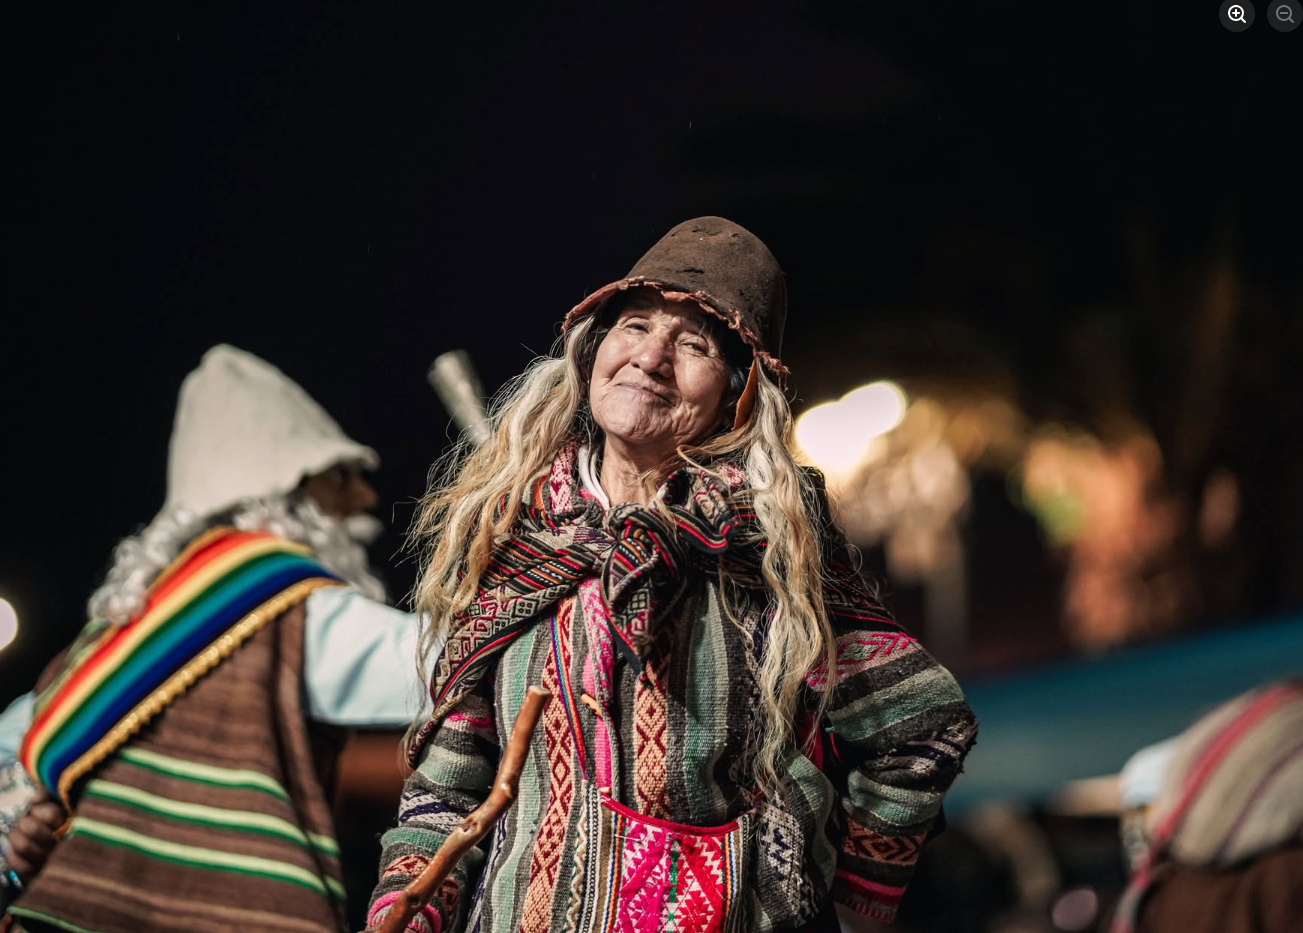
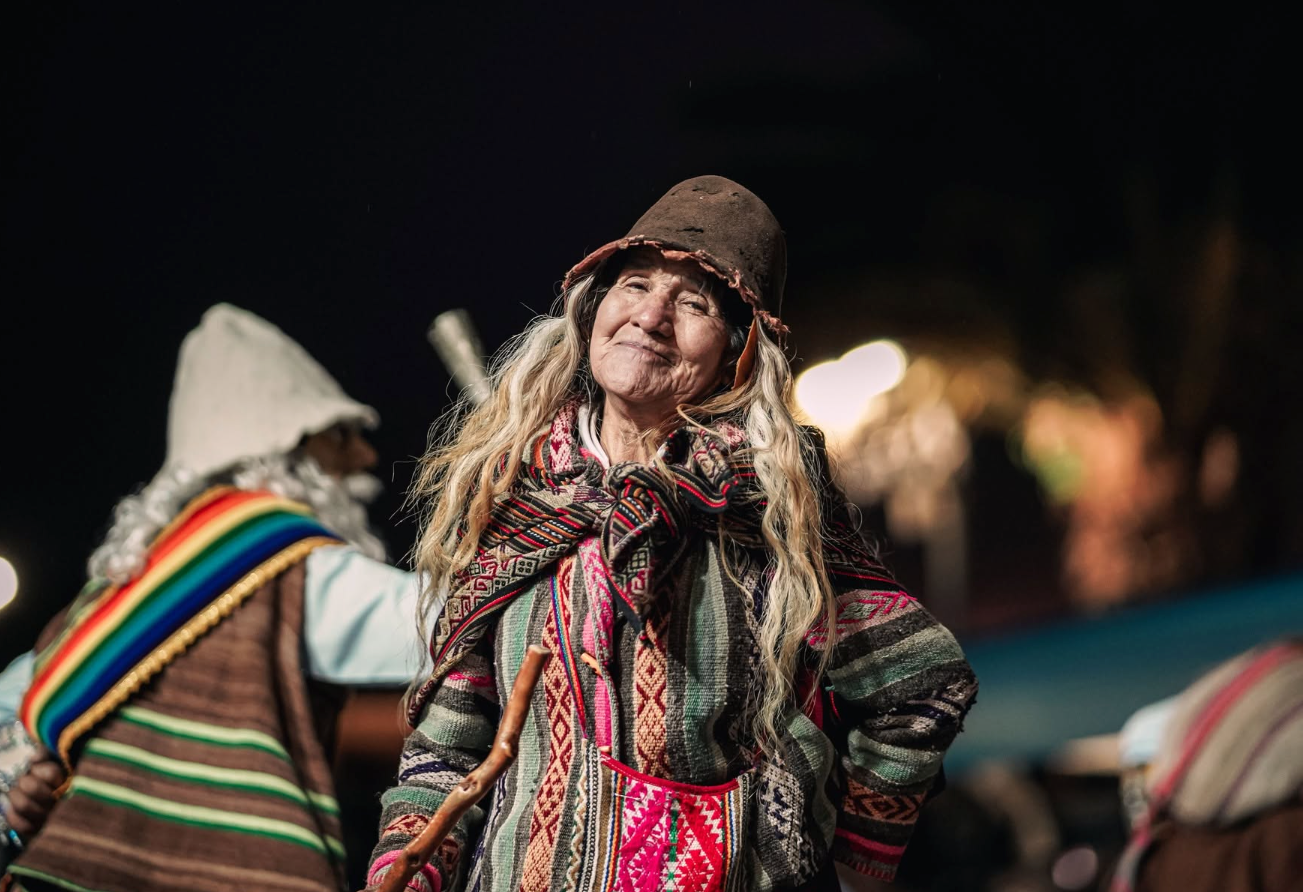
Subir imagenes recortadas de la galeria y corregir fluidez de movimiento eliminando vibracion

diff --git a/index.html b/index.html
@@ -1441,7 +1441,7 @@
     .runway-track-container {
       width: 100%;
       overflow-x: auto;
-      scroll-behavior: smooth;
+      scroll-behavior: auto !important;
       scrollbar-width: none;
       -ms-overflow-style: none;
       padding: 1.5rem 0;
@@ -3712,6 +3712,8 @@ Juan Carlos Pérez, 10293847, 984654321, I.E. San Jerónimo"></textarea>
         var scrollSpeed = 0.8;
         var isTouchDevice = 'ontouchstart' in window || navigator.maxTouchPoints > 0;
 
+        var currentPos = container.scrollLeft;
+
         function getOriginalTrackWidth() {
           return track.scrollWidth / 2;
         }
@@ -3720,18 +3722,24 @@ Juan Carlos Pérez, 10293847, 984654321, I.E. San Jerónimo"></textarea>
           isHovered = true;
           if (pauseTimer) clearTimeout(pauseTimer);
           pauseTimer = setTimeout(function () {
-            if (!isDragging) isHovered = false;
+            if (!isDragging) {
+              isHovered = false;
+              if (container) currentPos = container.scrollLeft;
+            }
           }, duration || 2000);
         }
 
-        // Animación de desplazamiento infinito continuo
+        // Animación de desplazamiento infinito continuo de alta fluidez (60 FPS)
         function autoRunway() {
           if (!isHovered && !isDragging && container) {
-            container.scrollLeft += scrollSpeed;
+            currentPos += scrollSpeed;
             var origWidth = getOriginalTrackWidth();
-            if (origWidth > 0 && container.scrollLeft >= origWidth) {
-              container.scrollLeft -= origWidth;
+            if (origWidth > 0 && currentPos >= origWidth) {
+              currentPos -= origWidth;
             }
+            container.scrollLeft = currentPos;
+          } else if (container) {
+            currentPos = container.scrollLeft;
           }
           requestAnimationFrame(autoRunway);
         }
